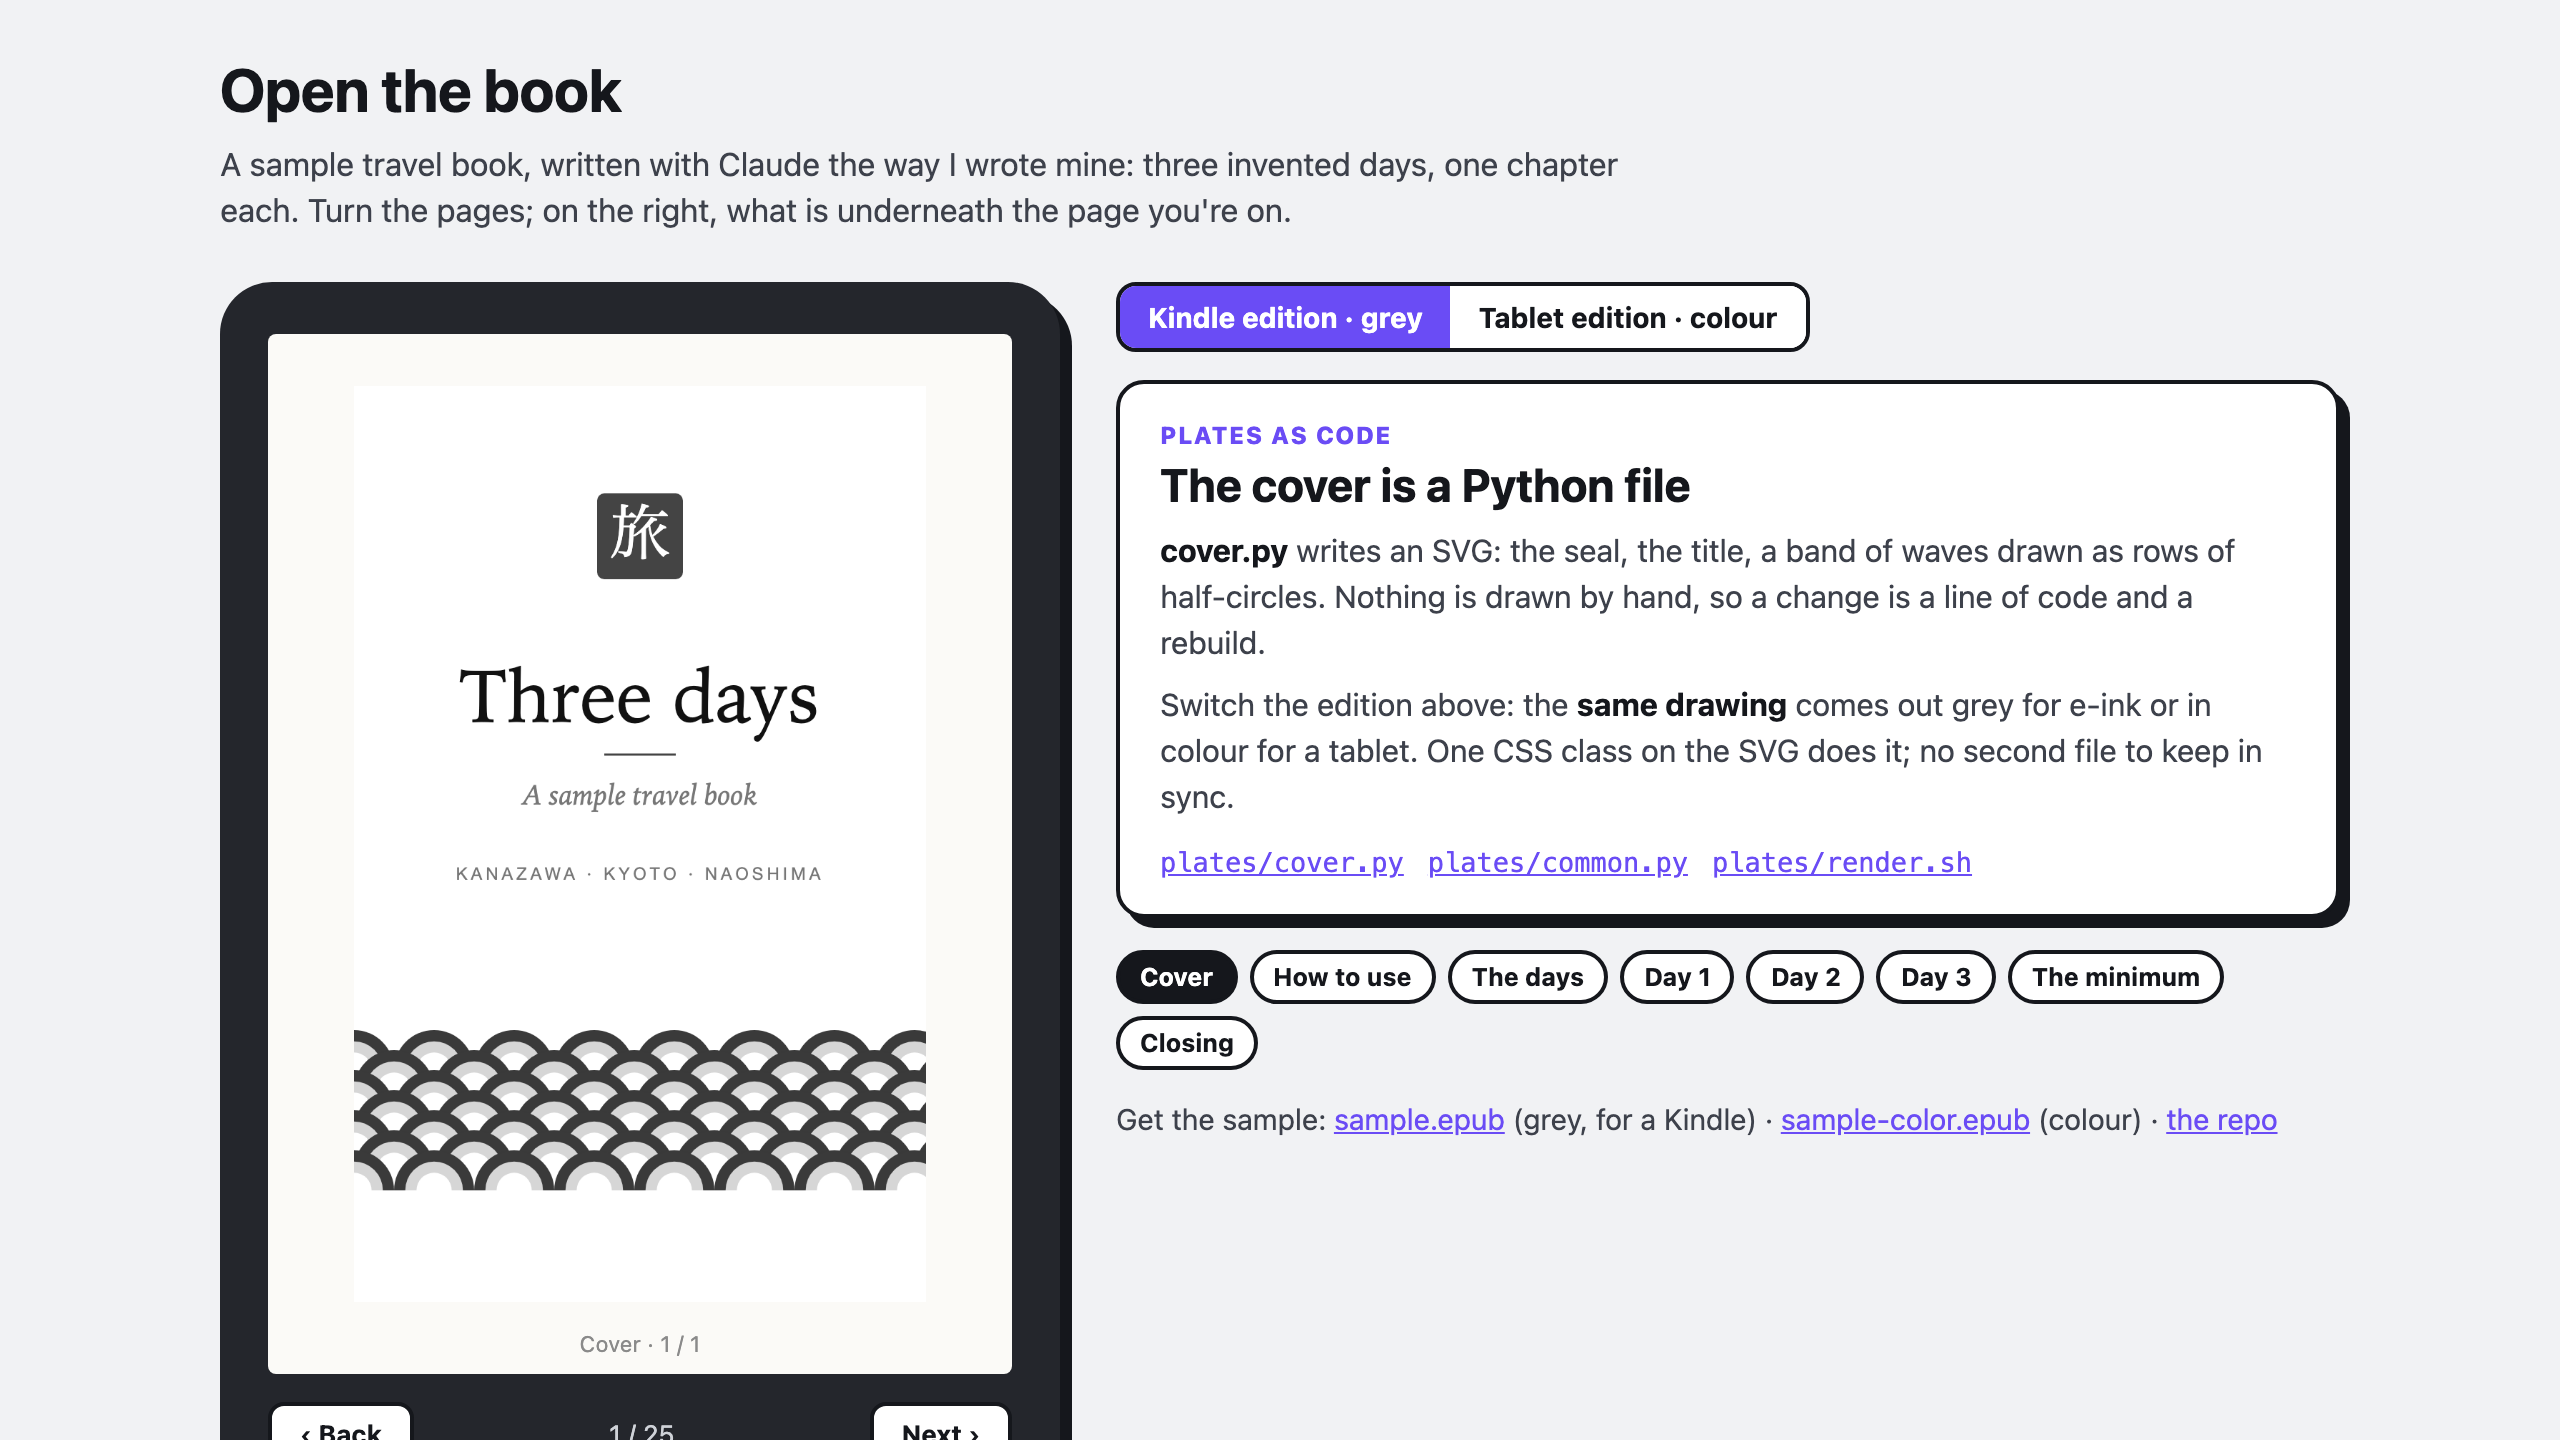
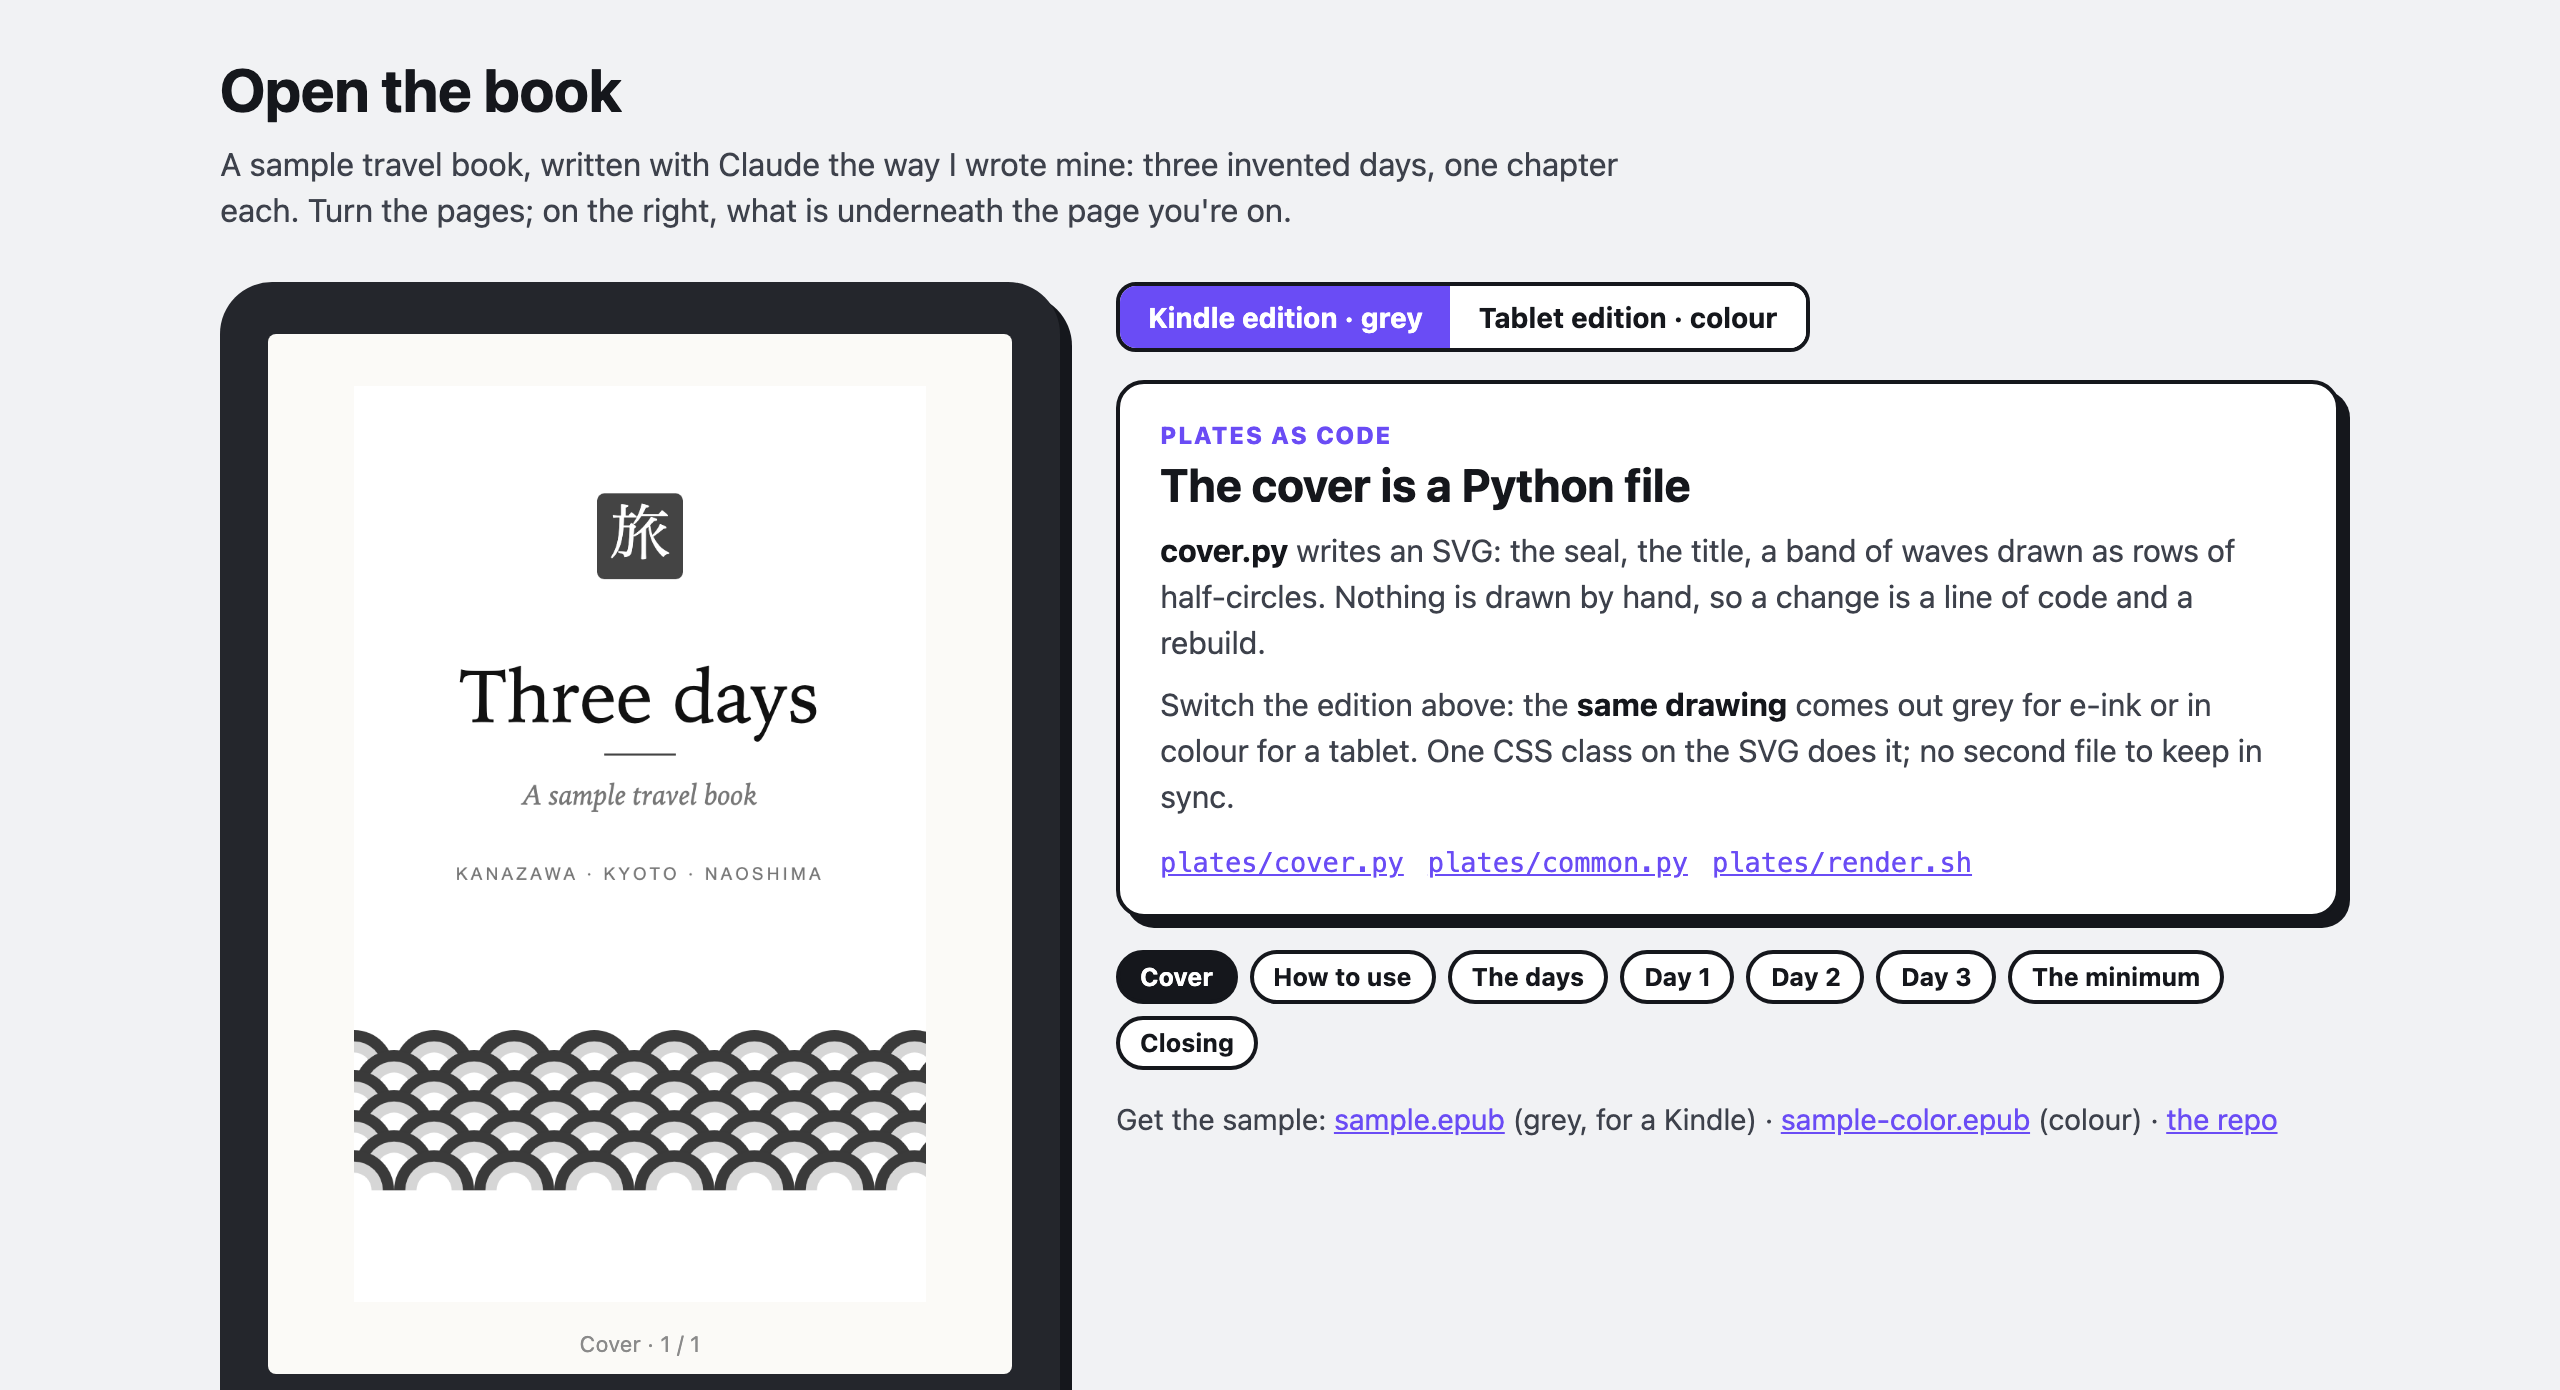
Share image: cropped above the page buttons

diff --git a/docs/index.html b/docs/index.html
@@ -10,7 +10,7 @@
 <meta property="og:title" content="Open the book: a travel book written with Claude">
 <meta property="og:image" content="https://re4mat-mp.github.io/travel-book-method/og.png">
 <meta property="og:image:width" content="2560">
-<meta property="og:image:height" content="1440">
+<meta property="og:image:height" content="1390">
 <meta name="twitter:card" content="summary_large_image">
 <style>
   :root{--ground:#F1F2F4;--ink:#15171C;--ink2:#3d414b;--ink3:#6b707c;--acc:#6A4CF5;--tint:#DCD4FF;--paper:#fbfaf7;--line:#c9ccd3;
